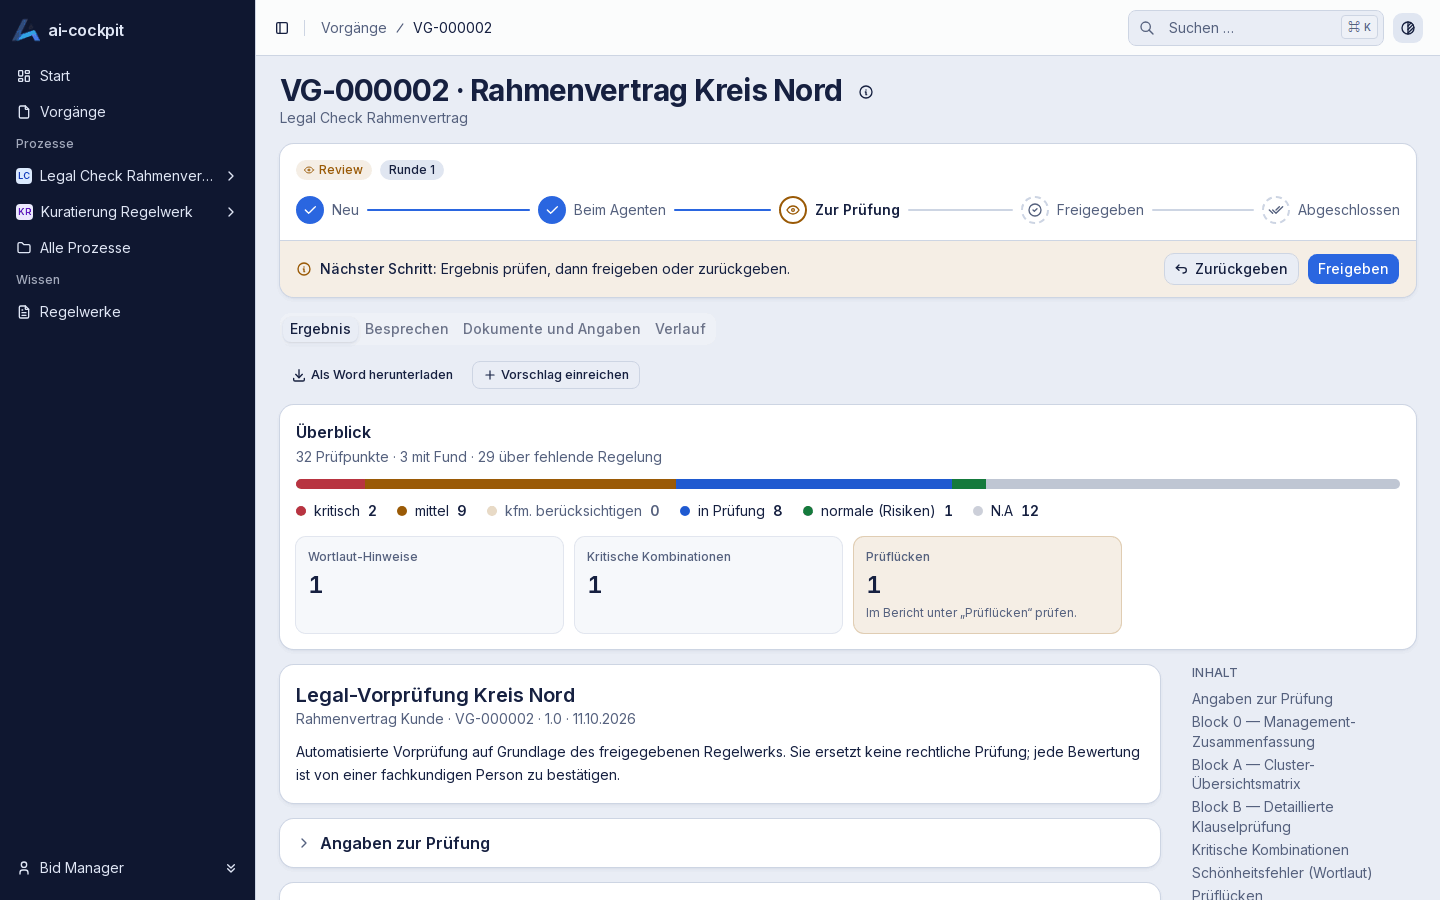
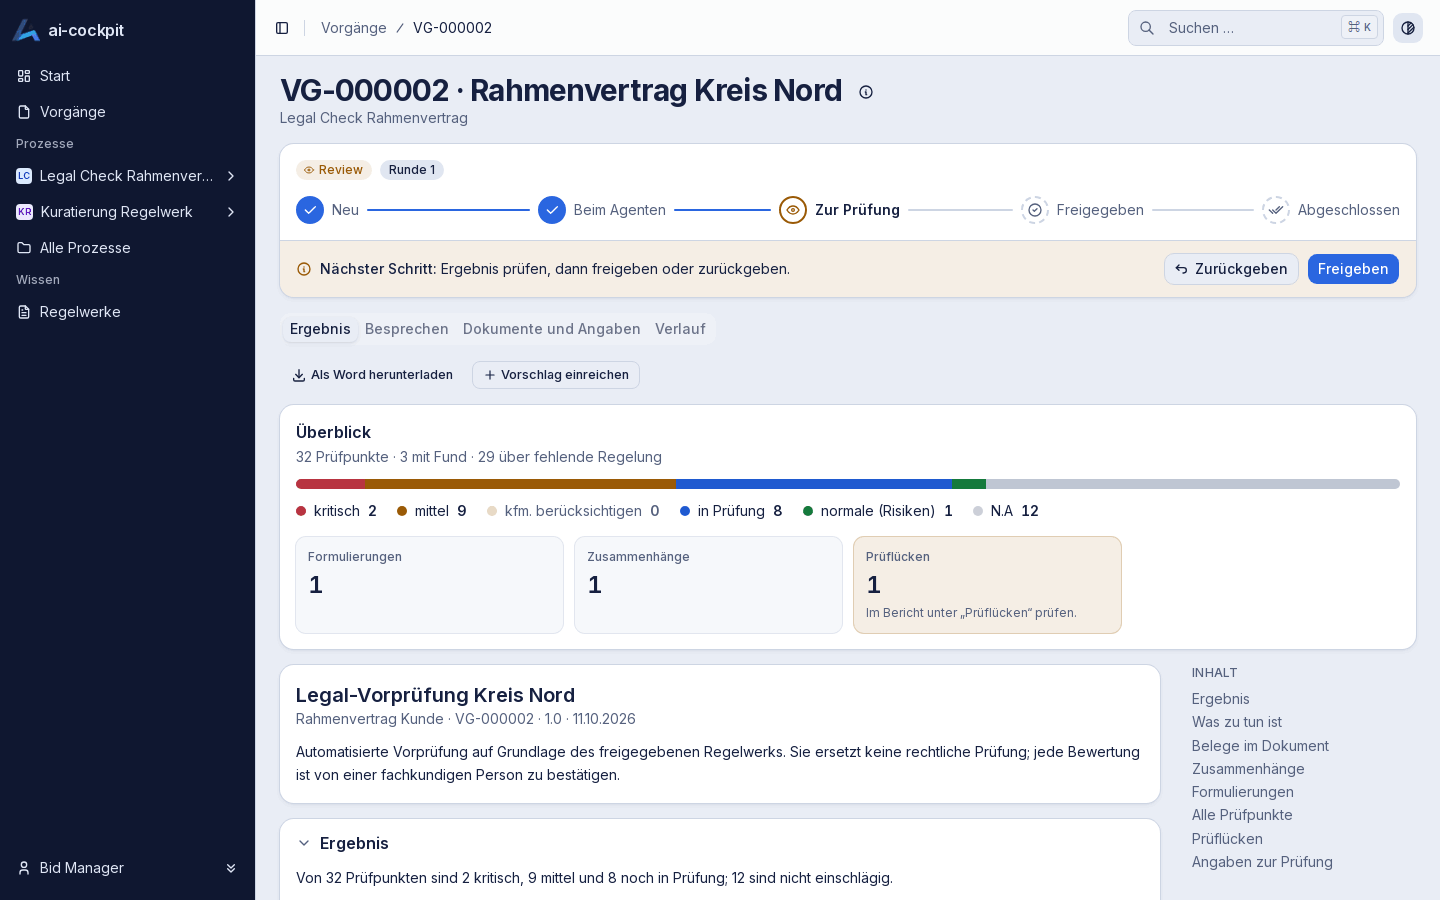
Gradient image frames, screenshots of the new report and filter bar

Changed region(s): [[0.1875, 0.7778, 0.9375, 1.0], [0.4062, 0.5911, 0.5, 0.6222], [0.2188, 0.5911, 0.2812, 0.6222]]

diff --git a/index.html b/index.html
@@ -169,9 +169,10 @@
             <p class="eyebrow">First process</p>
             <h2>Legal pre-review of framework contracts.</h2>
             <p>
-              An agent checks a contract against a catalogue of 32 checkpoints. The reviewer gets a
-              management summary, an overview of all checkpoints, the clauses in detail with verbatim
-              quotes, and wording issues — and exports the report into the company's Word template.
+              An agent checks a contract against a catalogue of 32 checkpoints. The reviewer gets the
+              result at a glance and what to do, grouped by action, with the evidence quoted verbatim,
+              every checkpoint by cluster and wording issues — and exports the report into the
+              company's Word template.
             </p>
             <ul class="checks">
               <li>Every checkpoint is answered, including the ones the contract does not regulate</li>

diff --git a/features.html b/features.html
@@ -65,7 +65,7 @@
           <div>
             <p class="eyebrow">Review</p>
             <h2>A result you can check, not a text you have to trust.</h2>
-            <p>The agent returns data, the platform renders it: first how every checkpoint is rated, then the summary; matrix, clauses with verbatim evidence and wording issues fold open when you need them. The same data becomes a Word document in your template.</p>
+            <p>The agent returns data, the platform renders it as a decision aid: first the result and what to do, grouped by action; the evidence quoted from the document, every checkpoint by cluster and wording issues fold open when you need them. The same data becomes a Word document in your template.</p>
             <ul class="checks">
               <li>Rounds: a return with a comment starts the next run</li>
               <li>Gaps of the agent are listed, not hidden</li>

diff --git a/assets/styles.css b/assets/styles.css
@@ -403,11 +403,11 @@ h3 {
   mask-image: linear-gradient(to bottom, #000 62%, transparent 100%);
 }
 
-/* Screenshot frame */
+/* Screenshot frame: a ring in the site's gradient, so light screenshots stand off the dark page */
 .shot {
   overflow: hidden;
-  background: #fff;
-  border: 1px solid rgb(255 255 255 / 16%);
+  padding: 3px;
+  background: var(--grad);
   border-radius: var(--radius);
   box-shadow:
     0 0 0 1px rgb(0 0 0 / 40%),
@@ -423,6 +423,12 @@ h3 {
   padding-inline: 16px;
   background: #0d1428;
   border-bottom: 1px solid rgb(255 255 255 / 8%);
+  border-radius: calc(var(--radius) - 3px) calc(var(--radius) - 3px) 0 0;
+}
+
+.shot img {
+  display: block;
+  border-radius: 0 0 calc(var(--radius) - 3px) calc(var(--radius) - 3px);
 }
 
 .shot-bar i {
